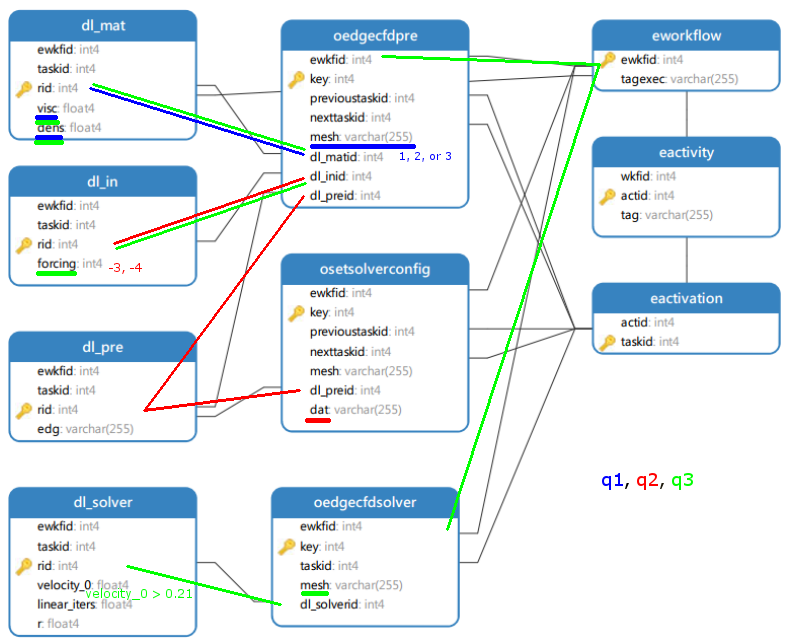
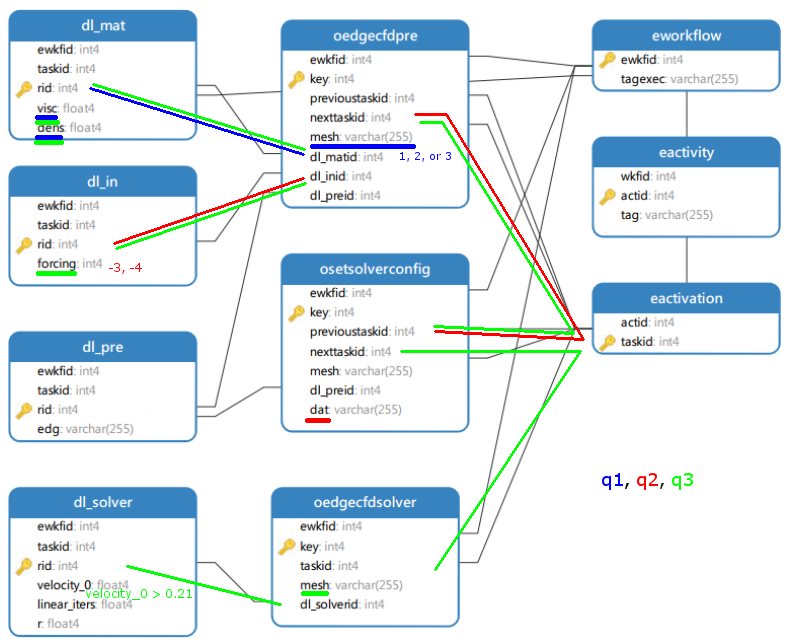
Fixed all queries.

diff --git a/README.md b/README.md
@@ -8,41 +8,45 @@
 
 1) Selecionar todas as configurações (visc, dens, etc) após o programa EdgeCFD Pre referentes às malhas cavp.2, cavp.3 ou cavp.4 (mesh)
 
-```SELECT "visc", "dens", "kxx", "kyy", "kzz", "mmodel" ```
+```SELECT DISTINCT "visc", "dens", "kxx", "kyy", "kzz", "mmodel", "mesh" ```
 ```FROM "scc2-edgecfd"."oedgecfdpre" , "scc2-edgecfd"."dl_mat"```
 ```WHERE mesh = 'cavp.2' OR ```
 ```mesh = 'cavp.3' OR ```
 ```mesh = 'cavp.4' AND```
-```"oedgecfdpre"."dl_matid" = "dl_mat"."id"```
+```"oedgecfdpre"."dl_matid" = "dl_mat"."rid"```
 
 * **Tempo real: ** 0.025s
 
-[comment]: SELECT "visc", "dens", "kxx", "kyy", "kzz", "mmodel" FROM "scc2-edgecfd"."oedgecfdpre" , "scc2-edgecfd"."dl_mat" WHERE mesh = 'cavp.2' OR  mesh = 'cavp.3' OR  mesh = 'cavp.4' AND "oedgecfdpre"."dl_matid" = "dl_mat"."id" ORDER BY key ASC LIMIT 100
+[comment]: SELECT DISTINCT "visc", "dens", "kxx", "kyy", "kzz", "mmodel",  "mesh" FROM "scc2-edgecfd"."oedgecfdpre" , "scc2-edgecfd"."dl_mat" WHERE mesh = 'cavp.2' OR  mesh = 'cavp.3' OR  mesh = 'cavp.4' AND "oedgecfdpre"."dl_matid" = "dl_mat"."rid" ORDER BY key ASC LIMIT 100
 
 4)  Selecionar todos os arquivos no formato dat (atributo dat) após a configuração das propriedades do solver (atividade SetSolverConfig) que utilizaram o algoritmo de solver (forcing) igual -4 ou -3
 
-```SELECT DISTINCT dat FROM "scc2-edgecfd".osetsolverconfig, "scc2-edgecfd".dl_in,  "scc2-edgecfd".oedgecfdpre```
-```WHERE osetsolverconfig.dl_preid = oedgecfdpre.dl_preid AND```
-```dl_in.id = oedgecfdpre.dl_inid AND```
-```dl_in.forcing in (-3, -4)```
+```SELECT DISTINCT dat ```
+```FROM "scc2-edgecfd".osetsolverconfig, "scc2-edgecfd".dl_in, "scc2-edgecfd".oedgecfdpre```
+```WHERE osetsolverconfig.previoustaskid = oedgecfdpre.nexttaskid ```
+```AND dl_in.rid = oedgecfdpre.dl_inid ```
+```AND dl_in.forcing in (-3, -4) ```
 
 * **Tempo real: ** 0.010s
 
-[comment]: SELECT DISTINCT dat FROM "scc2-edgecfd".osetsolverconfig, "scc2-edgecfd".dl_in, "scc2-edgecfd".dl_pre,  "scc2-edgecfd".oedgecfdpre WHERE osetsolverconfig.dl_preid = oedgecfdpre.dl_preid AND dl_in.id = oedgecfdpre.dl_inid AND dl_in.forcing in (-3, -4) LIMIT 100
+[comment]: SELECT DISTINCT dat
+FROM "scc2-edgecfd".osetsolverconfig, "scc2-edgecfd".dl_in, "scc2-edgecfd".oedgecfdpre WHERE osetsolverconfig.previoustaskid = oedgecfdpre.nexttaskid  AND dl_in.rid = oedgecfdpre.dl_inid  AND dl_in.forcing in (-3, -4)
 
 7) Selecionar a malha (atributo mesh), as propriedades do fluido (visc e dens) e o algoritmo do solver (forcing), em que a velocidade no eixo x (velocity_0) seja maior que 0.21
 
 ```SELECT DISTINCT oedgecfdsolver.mesh, visc, dens, forcing```
-```FROM "scc2-edgecfd".dl_in, "scc2-edgecfd".dl_mat, "scc2-edgecfd".dl_solver, "scc2-edgecfd".oedgecfdpre, "scc2-edgecfd".oedgecfdsolver```
+```FROM "scc2-edgecfd".dl_in, "scc2-edgecfd".dl_mat, "scc2-edgecfd".dl_solver, "scc2-edgecfd".oedgecfdpre,"scc2-edgecfd".osetsolverconfig, "scc2-edgecfd".oedgecfdsolver```
 ```WHERE dl_solver.rid = oedgecfdsolver.dl_solverid```
-```AND oedgecfdsolver.ewkfid = oedgecfdpre.ewkfid```
-```AND oedgecfdpre.dl_matid = dl_mat.id```
-```AND oedgecfdpre.dl_inid = dl_in.id```
+```AND oedgecfdsolver.taskid = osetsolverconfig.nexttaskid```
+```AND osetsolverconfig.previoustaskid = oedgecfdpre.nexttaskid```
+```AND oedgecfdpre.dl_matid = dl_mat.rid```
+```AND oedgecfdpre.dl_inid = dl_in.rid```
 ```AND dl_solver.velocity_0 > 0.21```
 
 * **Tempo real: ** 19.118s
 
-[comment]: SELECT DISTINCT oedgecfdsolver.mesh, visc, dens, forcing FROM "scc2-edgecfd".dl_in, "scc2-edgecfd".dl_mat, "scc2-edgecfd".dl_solver, "scc2-edgecfd".oedgecfdpre, "scc2-edgecfd".oedgecfdsolver WHERE dl_solver.rid = oedgecfdsolver.dl_solverid AND oedgecfdsolver.ewkfid = oedgecfdpre.ewkfid AND oedgecfdpre.dl_matid = dl_mat.id AND oedgecfdpre.dl_inid = dl_in.id AND dl_solver.velocity_0 > 0.21
+[comment]: SELECT DISTINCT oedgecfdsolver.mesh, visc, dens, forcing
+FROM "scc2-edgecfd".dl_in, "scc2-edgecfd".dl_mat, "scc2-edgecfd".dl_solver, "scc2-edgecfd".oedgecfdpre,"scc2-edgecfd".osetsolverconfig, "scc2-edgecfd".oedgecfdsolver WHERE dl_solver.rid = oedgecfdsolver.dl_solverid AND oedgecfdsolver.taskid = osetsolverconfig.nexttaskid AND osetsolverconfig.previoustaskid = oedgecfdpre.nexttaskid AND oedgecfdpre.dl_matid = dl_mat.rid AND oedgecfdpre.dl_inid = dl_in.rid AND dl_solver.velocity_0 > 0.21
 
 ![queries](img/schema.png)
 
